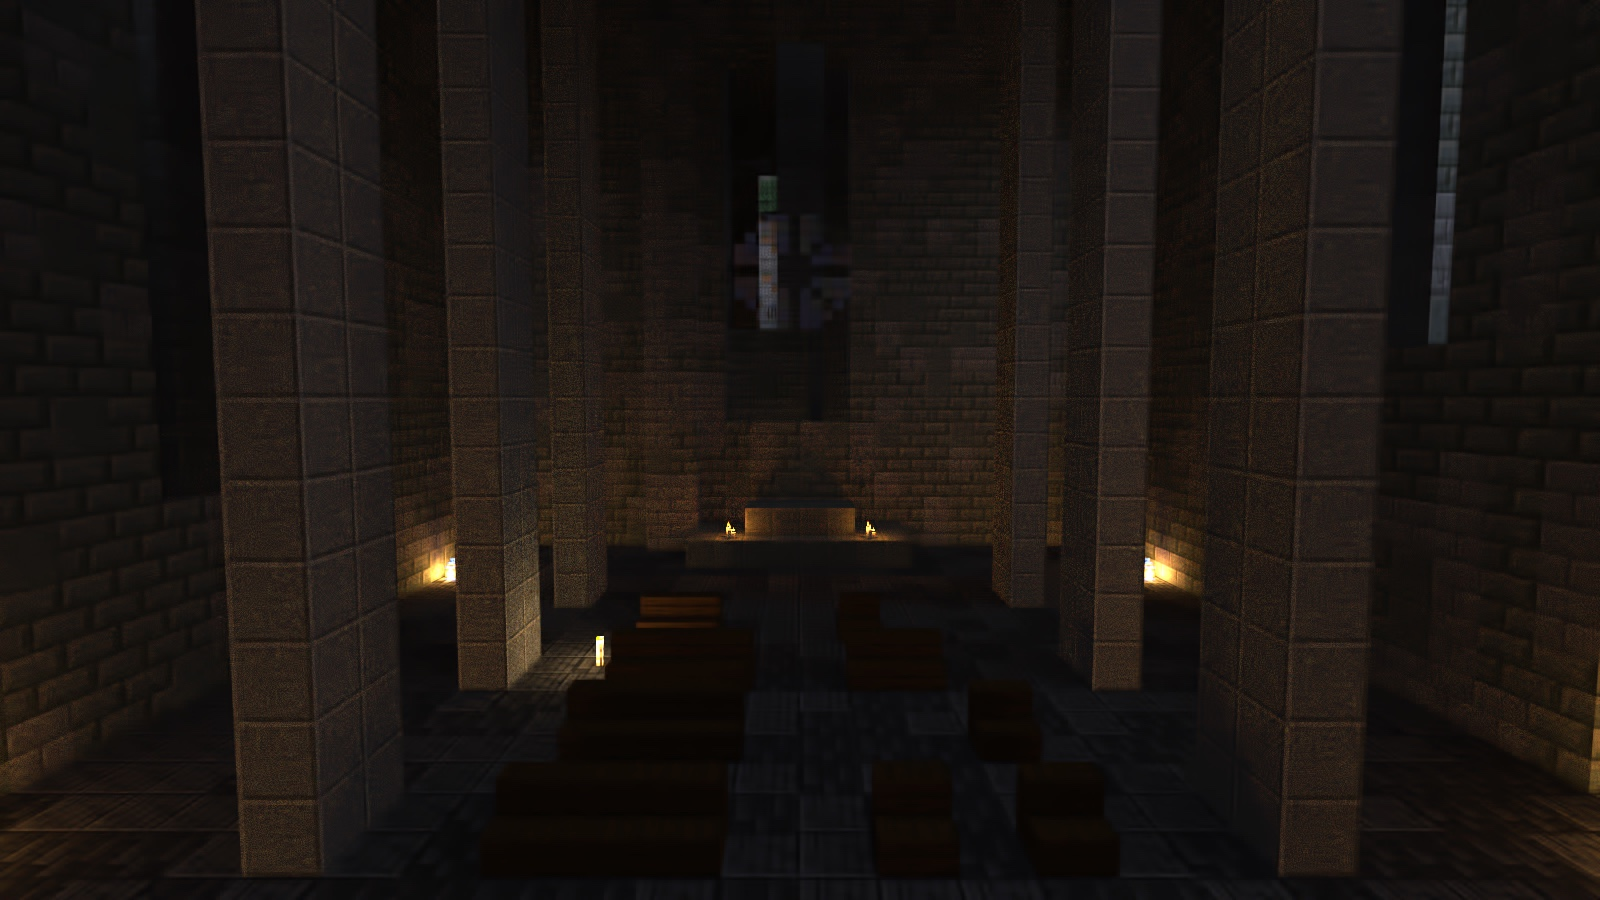
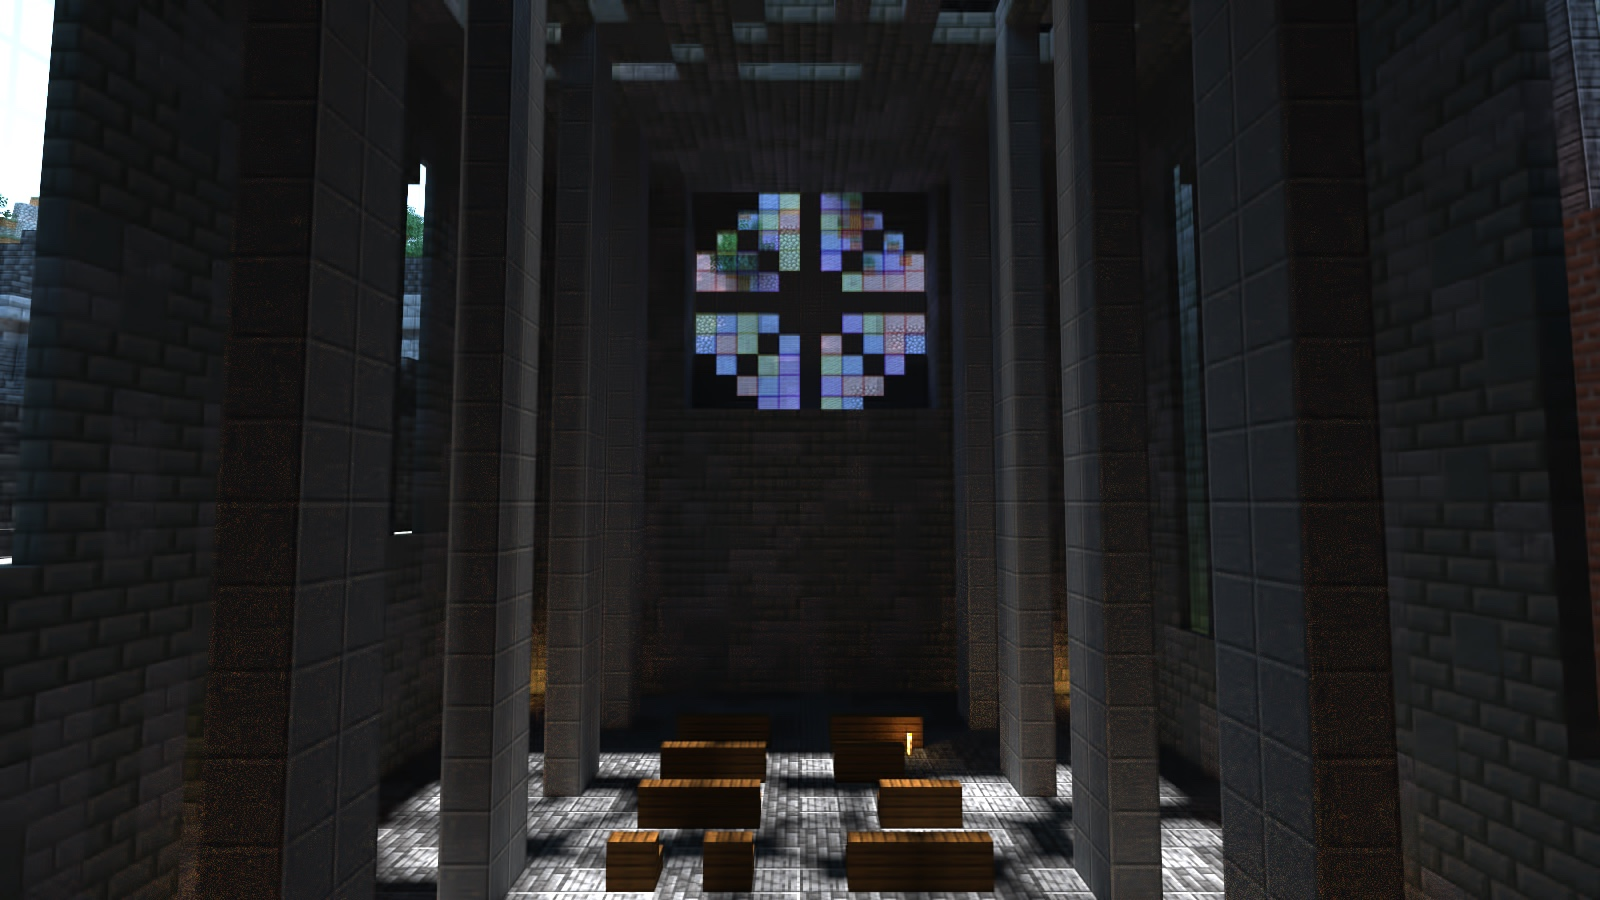
docs(media): the Chapel of Hours is shown by day
07-chapel-of-hours.jpg is re-rendered under a clear noon, the one frame of
the set that leaves the declared dusk, by the owner's ruling; its caption
says it is shown by day, and showcase-shots.md §2b gains the rule that a
frame may take a different sky when the declared one leaves the room
unreadable, its caption saying so.

Instruments: content a3568c28ef747f9f7d266d7bdcdaad8b74079f88 with
design/cameras.json from showcase/vesperhold-cameras
a14cf00baeda3329b84ab0fbeff5fd2b419e7f05 laid over it; built and emitted
by released delvec 1.7.1 (dsl 0.34.0); world saved by
validation/world-save.sh (6 region files); rendered on
chunky-core-2.5.0-SNAPSHOT.474.g156e2bb.

Camera show-chapel: pos [48, 88, 44], yaw 90, pitch -4, fov 62 — moved
from the west end looking east: by day the light enters by the rose window
and the broken roof, and the east-facing frame left the walls black and
the floor pool blown. Sky: Chunky's default SIMULATED sky; sun altitude
pi/2, azimuth pi, intensity 1.25; fog off. Exposure 10 (6 left the
pillars black, 16 blew the sunlit floor). 1024 spp, 26 min 14 s at 9
threads, then ffmpeg bm3d=sigma=30. spp chosen by measurement on a
400x225 frame against a 4096-spp reference: rms 7.92 at 300, 5.26 at
300+BM3D, 5.95 at 1024, 4.66 at 1024+BM3D, 4.46 at 4096+BM3D.
JPEG q92, 318 KB, mean luma 33.5.

Claude-Session: https://claude.ai/code/session_01KmByaiN8Gyxx4DpknJgunU

diff --git a/docs/reference/showcase-shots.md b/docs/reference/showcase-shots.md
@@ -48,6 +48,7 @@ The design states a time and a weather per picture; the renderer carries the tim
 2. **Expose a dusk exterior at 2.0 under that sky.** At 1.0 the castle's walls sink into one dark tone; the drafts at 1.5–1.8 read, and the final frames take 2.0. **[authored]** — measured on vesperhold.
 3. **1024 spp for an overcast dusk exterior.** Seven 1600 × 900 frames took 13 min 52 s to 17 min 57 s each at 9 threads and show no grain at full size; a lower count was not tried. **[authored]** — measured on vesperhold.
 4. **One sky for the whole set.** Every picture of one delve takes the same block, so the set reads as one place at one hour; in a candle-lit room it changes nothing visible, and a window or a broken roof shows the same sky. **[authored]**
+5. **A frame may take a different sky when the declared one leaves the room unreadable, and its caption says so.** **[authored]** — vesperhold's chapel is shown at a clear noon (Chunky's default simulated sky, sun altitude π/2, fog 0), exposure 10, 1024 spp plus BM3D: against a 4096-spp reference of the same 400 × 225 frame the rms error was 7.9 at 300 spp, 5.3 at 300 plus BM3D, 4.7 at 1024 plus BM3D and 4.5 at 4096 plus BM3D.
 
 ## 3. Interiors
 

diff --git a/docs/media/vesperhold/README.md b/docs/media/vesperhold/README.md
@@ -1,6 +1,6 @@
 # Inside Vesperhold
 
-Renders of **Vesperhold**, a delve built with Delvewright: a Gothic hold on a crag, at dusk, under rain. One picture for each part of the map, roughly in the order a party reaches them. [Back to the front page](../../../README.md).
+Renders of **Vesperhold**, a delve built with Delvewright: a Gothic hold on a crag, at dusk, under rain; one room is shown by day, and its caption says so. One picture for each part of the map, roughly in the order a party reaches them. [Back to the front page](../../../README.md).
 
 ![The approach](02-approach.jpg)
 
@@ -24,7 +24,7 @@ The cloister from above: one tree in the garth, the arcades around it, the well-
 
 ![The Chapel of Hours](07-chapel-of-hours.jpg)
 
-The Chapel of Hours: pews between tall pillars down the nave, and a candle-lit altar under the east window.
+The Chapel of Hours, shown by day: noon light falling through the broken roof onto the pews, and the rose window glowing in the west front.
 
 ![The undertide pool](08-undertide-pool.jpg)
 
